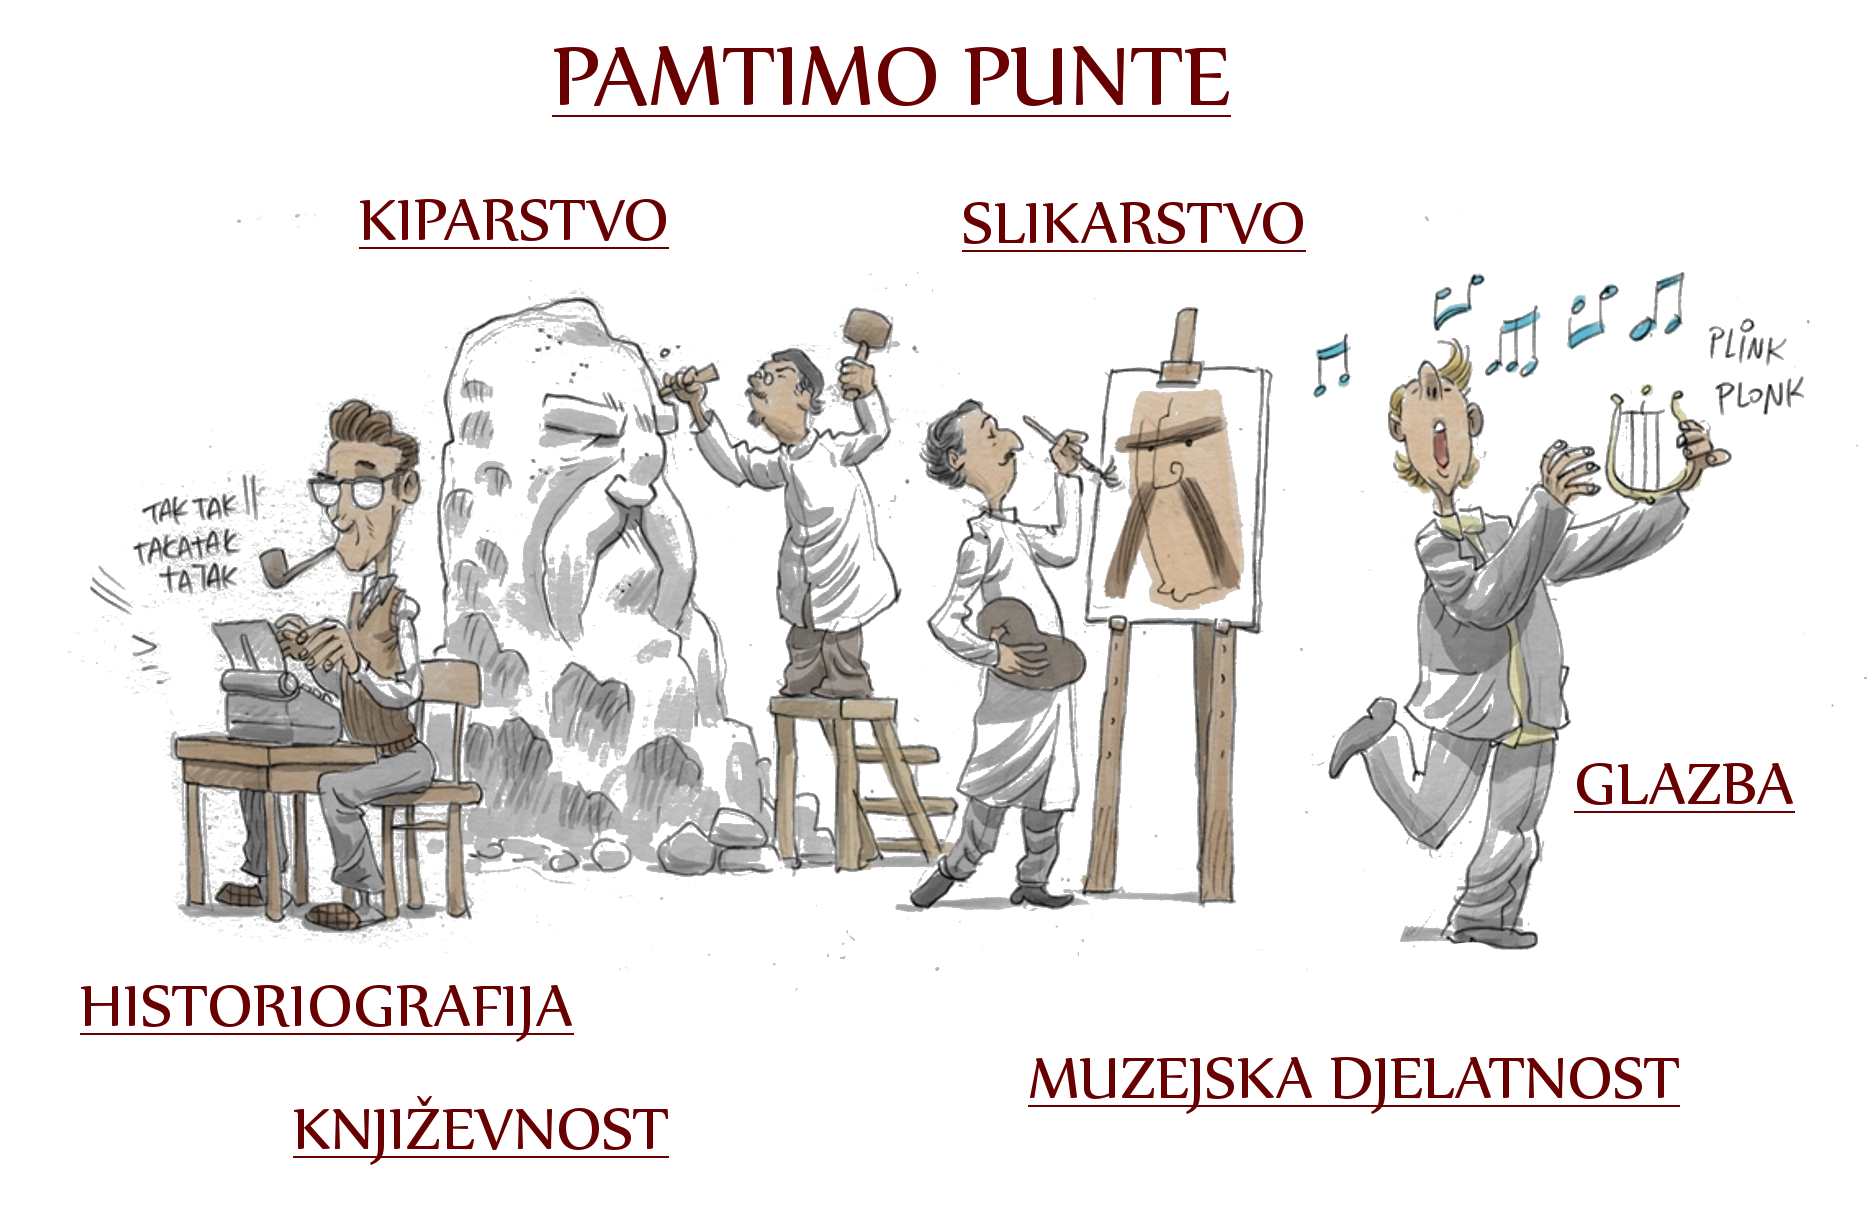
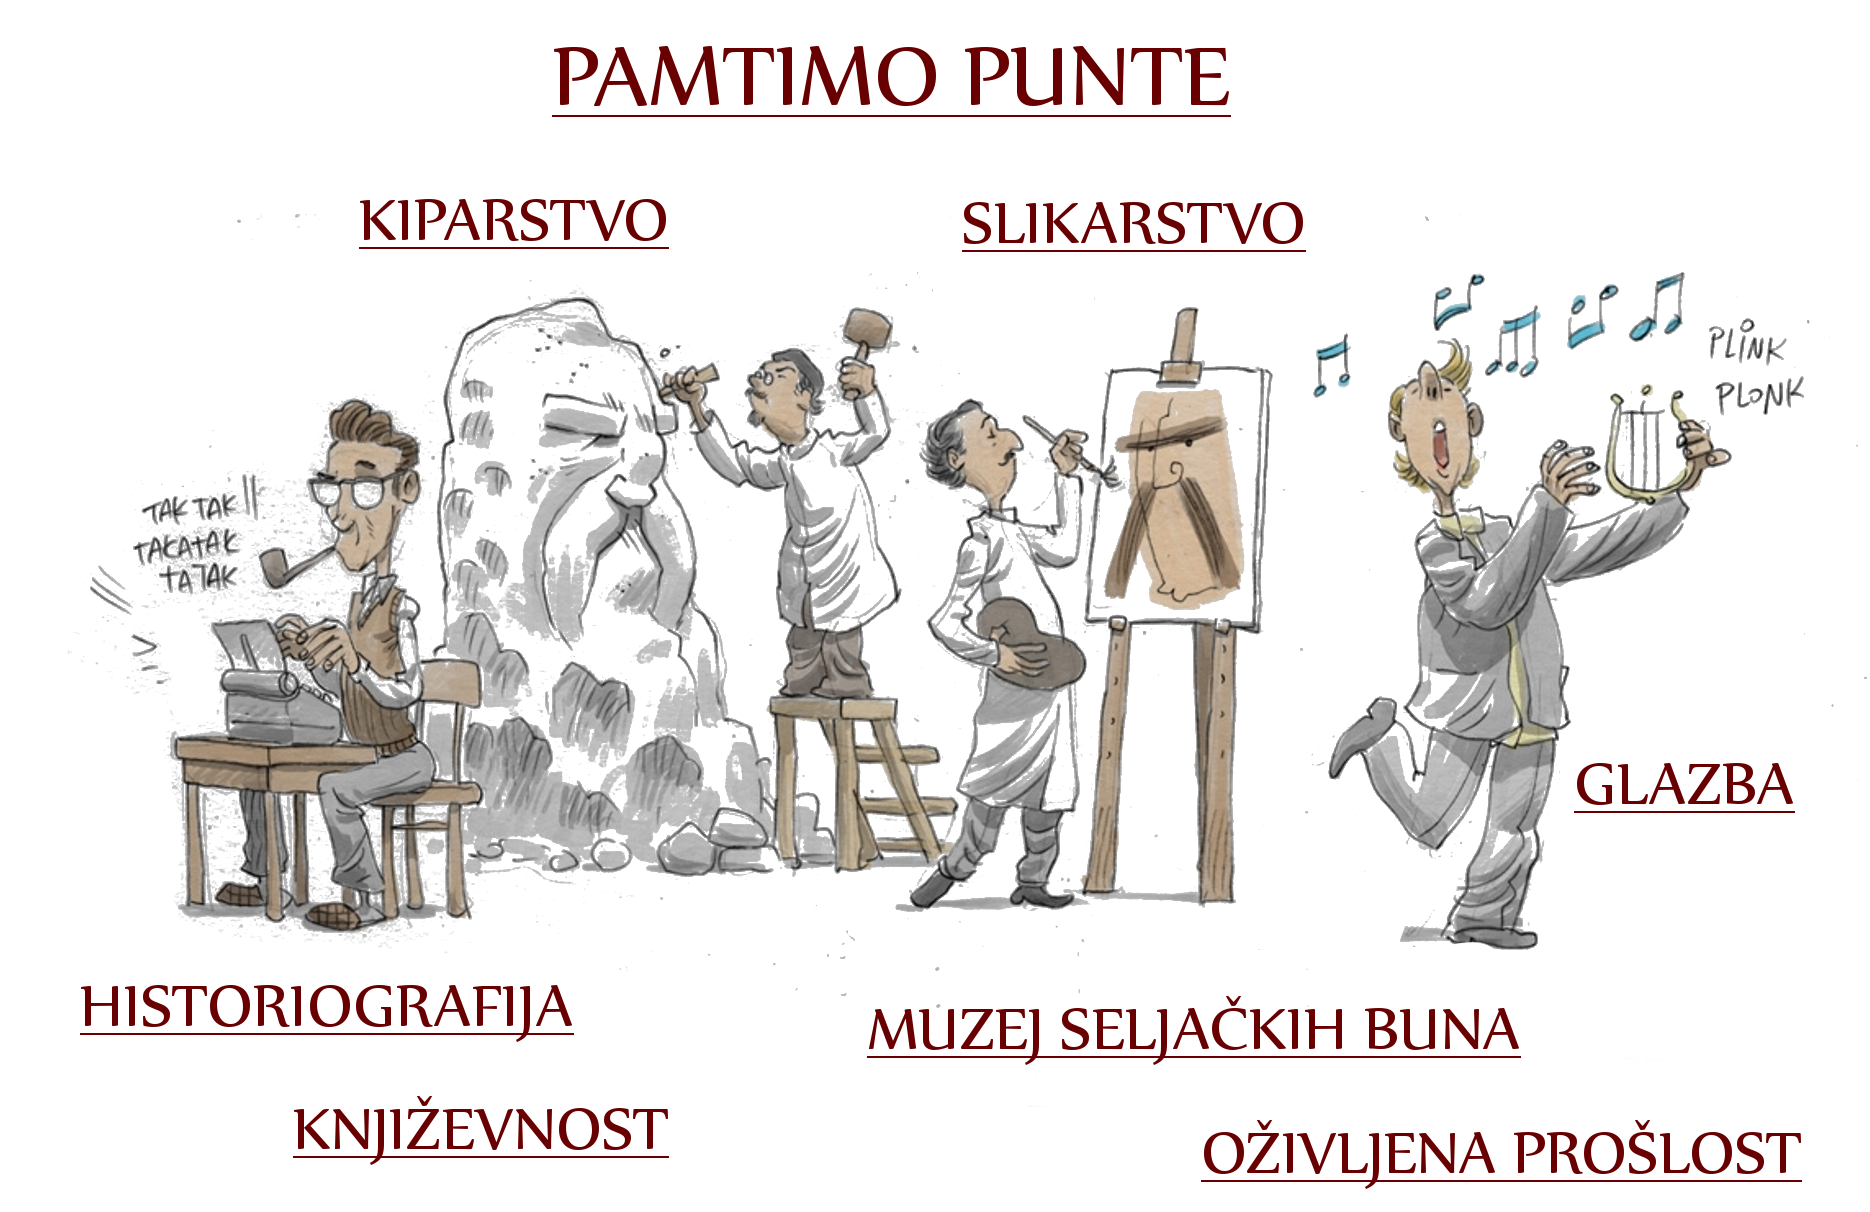
glupe naslovnice

Changed region(s): [[0.4652, 0.8243, 0.9615, 0.9769]]

diff --git a/1573.html b/1573.html
@@ -338,11 +338,12 @@
     <map name="image-map">
         <area target="" alt="Velika seljačka buna" title="Velika seljačka buna" coords="531,160,1112,221" shape="rect" onclick='$("#seljacke-karta").show();'>
         <area target="" alt="Franjo Tahy" title="Franjo Tahy" coords="1362,200,1637,256" shape="rect" onclick='$("#tahy").show();'>
-        <area target="" alt="Gubec-beg" title="Gubec-beg" coords="128,379,365,428" shape="rect" onclick='$("#gupec").show();'>
+        <area target="" alt="Gubec-beg" title="Gubec-beg" coords="30,375,549,428" shape="rect" onclick='$("#gupec").show();'>
         <area target="" alt="Ilija Gregorić" title="Ilija Gregorić" coords="365,474,675,522" shape="rect" onclick='$("#ilija").show();'>
         <area target="" alt="Oružje" title="Oružje" coords="776,686,939,740" shape="rect" onclick='$("#oruzje").show();'>
         <area target="" alt="Bitka kod stubičkih toplica" title="Bitka kod stubičkih toplica" coords="1025,408,1431,504" shape="rect" onclick='$("#stubicke").show();'>
-        <area target="" alt="Josip Jošt Turn" title="Josip Jošt Turn" coords="1224,304,1597,359" shape="rect" onclick='$("#thurn").show();'>
+        <area target="" alt="Josip Jošt Turn" title="Josip Jošt Turn" coords="1224,305,1612,362" shape="rect" onclick='$("#thurn").show();'>
+
 
     </map>
 

diff --git a/punte-naslovnica.html b/punte-naslovnica.html
@@ -1610,7 +1610,8 @@
         <area target="" alt="Glazba" title="Glazba" coords="1574,756,1797,824" shape="rect" onclick="$('#glazba').show()">
         <area target="" alt="Historiografija" title="Historiografija" coords="77,979,583,1043" shape="rect" onclick="odabir='pocetna';tekstMijenja();$('#historiografija').show()">
         <area target="" alt="Knjizevnost" title="Knjizevnost" coords="290,1095,673,1169" shape="rect" onclick="odabir='pocetna';tekstMijenja_knj();$('#knjizevnost').show()">
-        <area target="" alt="Muzej" title="Muzej" coords="1022,1043,1684,1116" shape="rect">
+           <area target="" alt="muzej" title="muzej" href="" coords="866,997,1529,1063" shape="rect">
+    <area target="" alt="proslost" title="proslost" href="" coords="1198,1116,1813,1189" shape="rect">
     </map>
 
     <script>

diff --git a/css/stil.css b/css/stil.css
@@ -388,3 +388,27 @@
             height: 15px;
             border-radius: 50%;
         }
+        
+        .skroler2 {
+            overflow-y: auto;
+            height: 600px;
+            padding-right: 8px;
+        }
+        
+        .skroler2::-webkit-scrollbar {
+            width: 15px;
+        }
+        
+        .skroler2::-webkit-scrollbar-thumb {
+            background: rgb(104, 0, 2);
+        }
+        
+        .skroler2::-webkit-scrollbar-track {
+            background: #ddd;
+        }
+        
+        .skroler2::-webkit-scrollbar-button {
+            background: rgb(104, 0, 2);
+            height: 15px;
+            border-radius: 50%;
+        }
